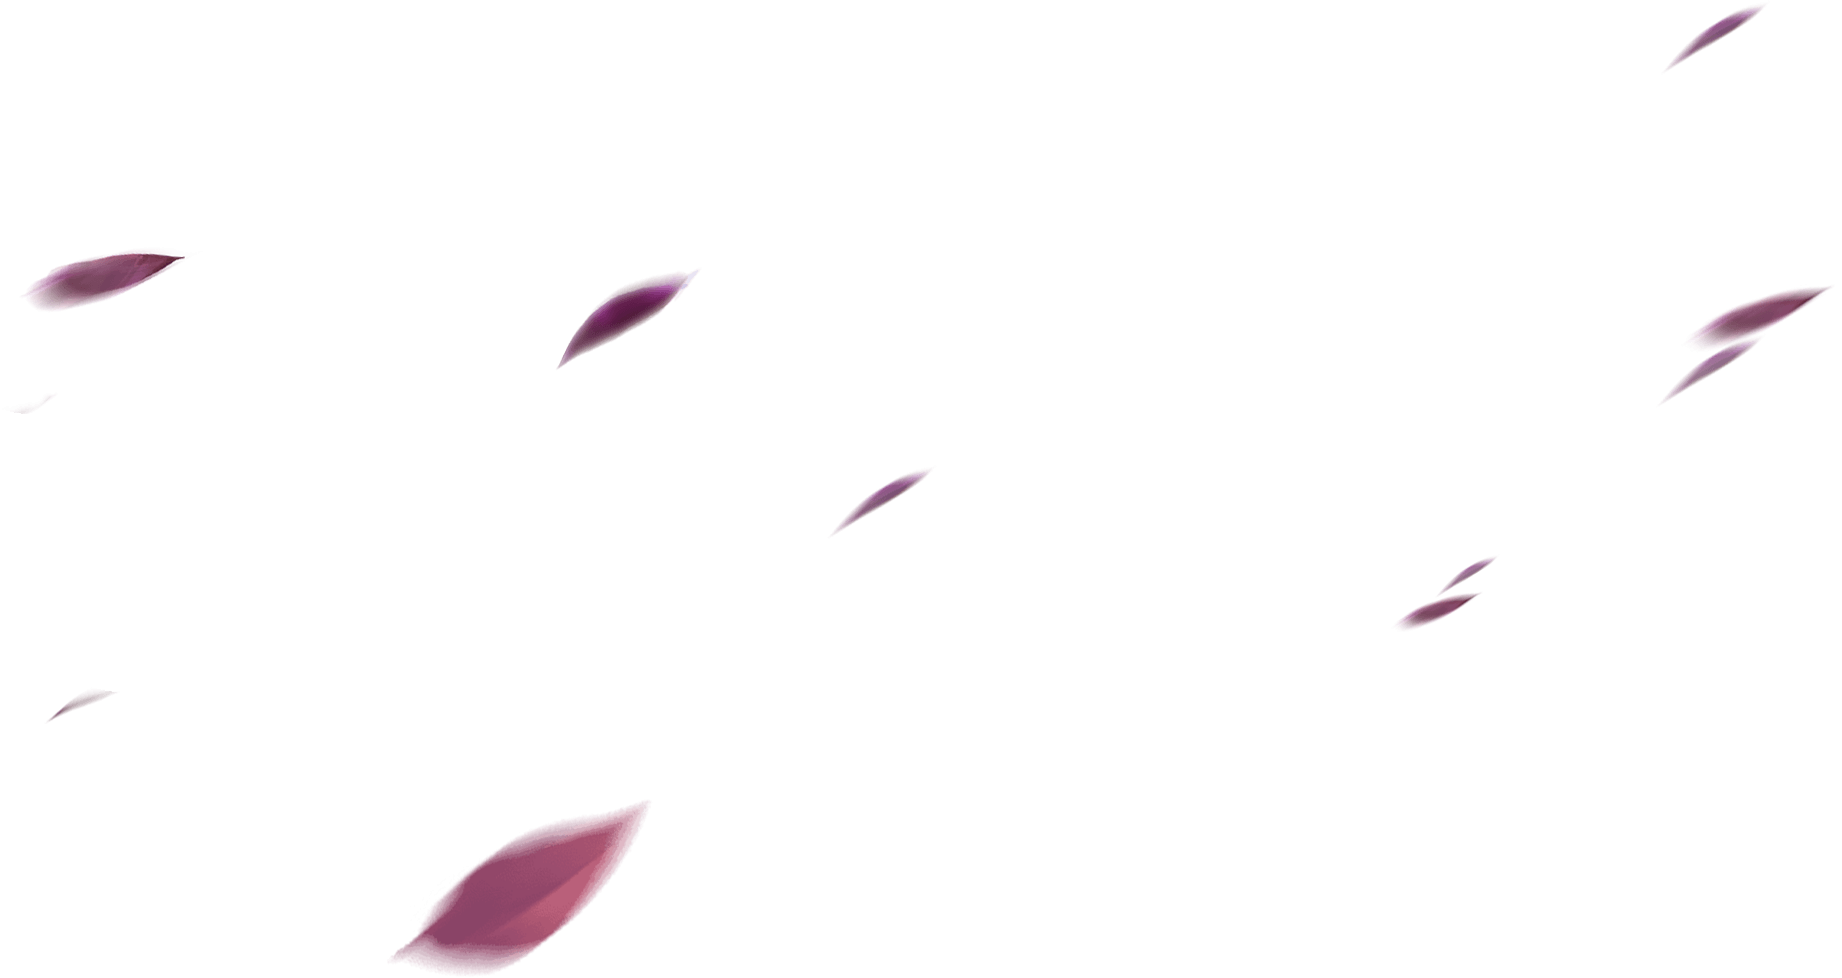
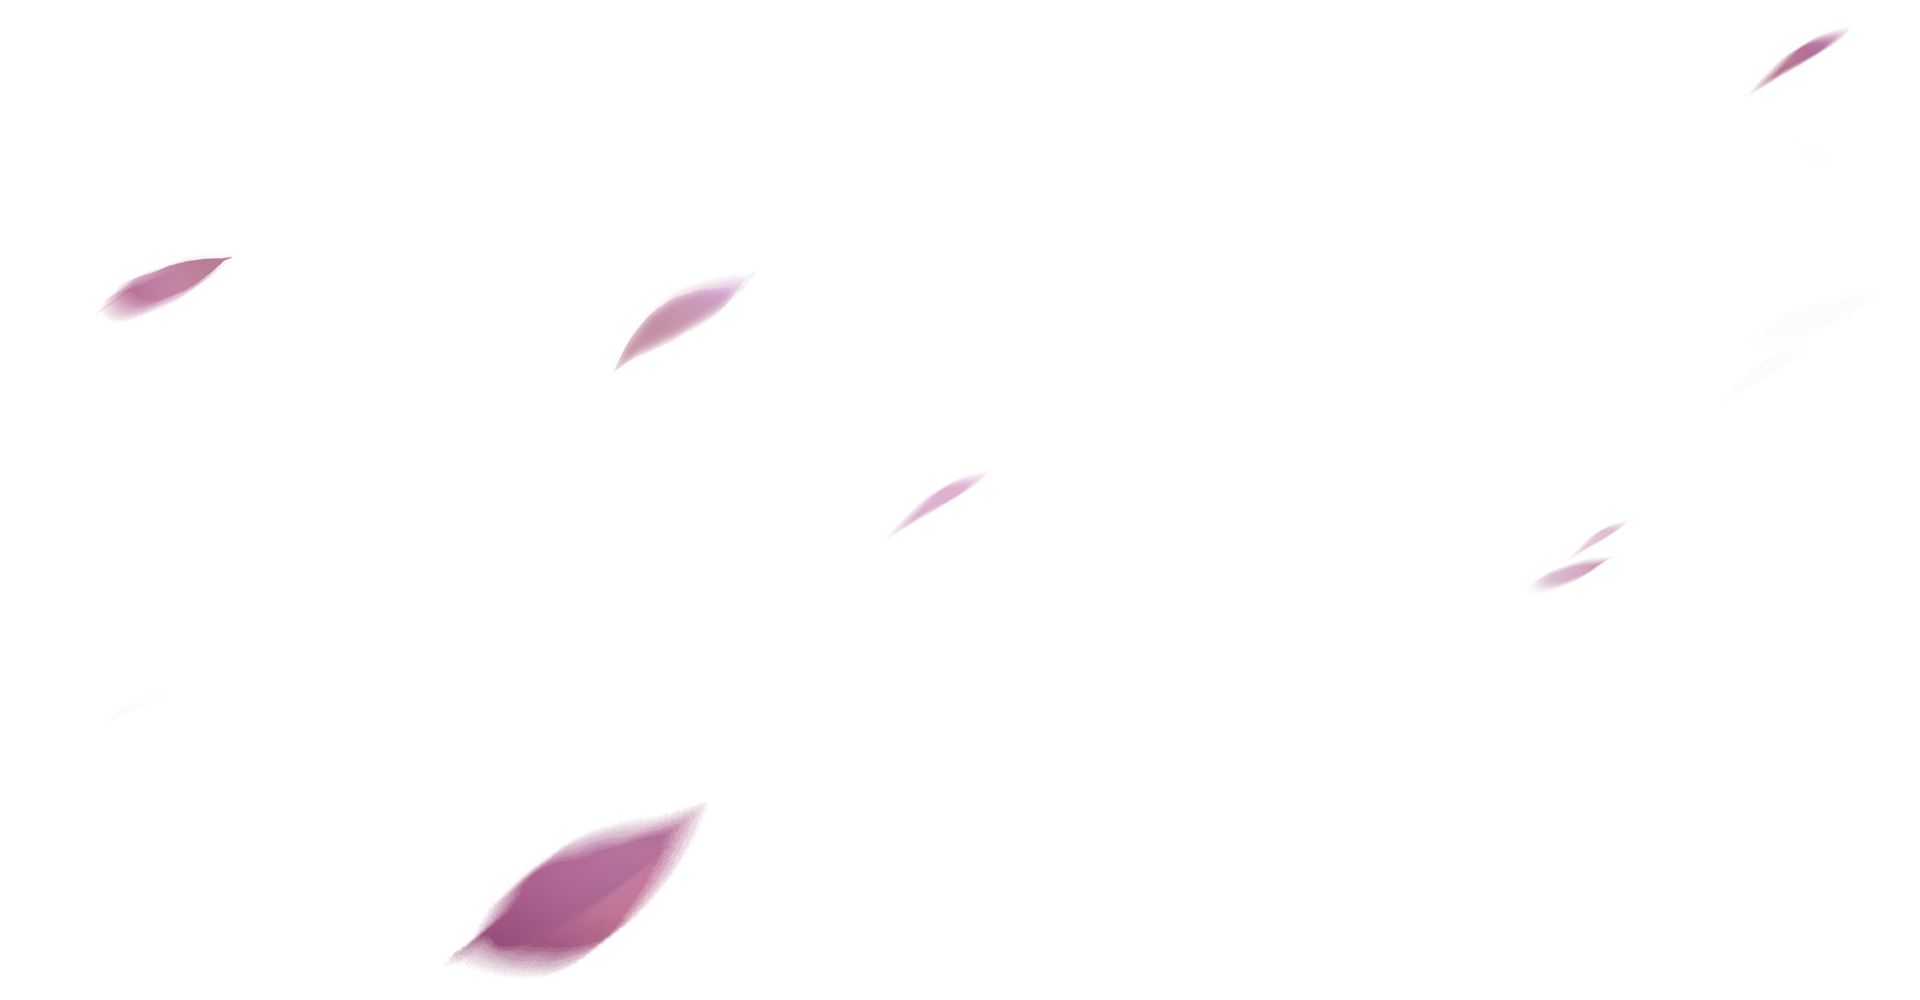
零散的一些小问题

diff --git a/mxjh-web/WebRoot/cssforpc/index.css b/mxjh-web/WebRoot/cssforpc/index.css
@@ -25,26 +25,27 @@ body { font-family: "Microsoft YaHei",simSun,"Lucida Grande","Lucida Sans Unicod
 body { min-width: 1260px; position: relative; margin: 0px auto; }
 .wrap { min-width: 1260px; max-width: auto; width:100%;height:100%; margin: 0px auto; position: relative; }
 .section { min-height: 800px; position: relative; width: 100%; height: 100%; min-width: 1260px; overflow:; }
-.section h2, .section .desc, .section .role-name { position: absolute; text-indent: -9999px; left: 50%; }
+.section h2, .section .desc, .section .role-name,.section  .leaf{ position: absolute; text-indent: -9999px; left: 50%; }
 .role { position: absolute; left: 50%; }
 .section-01 { background:url("../img/bg_01.jpg") no-repeat scroll center top;background-size:cover; }
-.section-01 .title { position: absolute; left: 50%; width: 231px; height: 633px; top: 10%; margin-left: -41%; }
+.section-01 .title { position: absolute; left: 50%; width: 231px; height: 633px; top: 10%; margin-left: -500px; }
 .section-01 .yuyue-btn { position: absolute; text-indent: -9999px; width: 105px; height: 168px; top: 202px; left: 50%; margin-left: -512px; background-repeat: no-repeat; }
 .section-01 .yuyue-btn:hover { background-repeat: no-repeat; }
-.section-01 .slogan_date { background:url("../img/dyqrt.png") top center no-repeat;width: 50px; height: 600px; font-size: 0px; text-indent: -9999px; display: block; margin: 1% auto 0px -45%; position: absolute; top: 10%; left: 50%; z-index: 10;}
+.section-01 .slogan_date { background:url("../img/dyqrt.png") top center no-repeat;width: 50px; height: 600px; font-size: 0px; text-indent: -9999px; display: block; margin: 1% auto 0px -580px; position: absolute; top: 10%; left: 50%; z-index: 10;}
 .section-01 a.download-btn { background-repeat: no-repeat; }
 .section-01 a.download-btn:hover { background-repeat: no-repeat; }
-.section-01 .qrcode_wx_box { background:url("../img/gzwx.png");width: 143px; height: 89px; position: absolute; top: 50%; left: 50%; margin-left: -125px; z-index: 10; font-size: 0px; background-repeat: no-repeat; }
-.section-01 .erweima{ background:url("../img/wxewm001.png");width: 100px; height: 99px; position: absolute; top: 50%; left: 50%; margin-left: -25px; z-index: 10; font-size: 0px; background-repeat: no-repeat;background-size:cover }
-.section-01 .luntan_btn {background:url("../img/jrgw01.png"); width: 112px; height: 89px; position: absolute; top: 62%; left: 50%; margin-left: -125px; z-index: 10; font-size: 0px; background-repeat: no-repeat; }
-.section-01 .gift_con { background:url("../img/yylb.png");width: 112px; height: 89px; position: absolute; top: 74%; left: 50%; margin-left: -125px; z-index: 10; font-size: 0px; background-repeat: no-repeat; }
+.section-01 .qrcode_wx_box { background:url("../img/gzwx.png");width: 143px; height: 89px; position: absolute; top: 50%; left: 50%; margin-left: -75px; z-index: 10; font-size: 0px; background-repeat: no-repeat; }
+.section-01 .erweima{ background:url("../img/wxewm001.png");width: 100px; height: 99px; position: absolute; top: 50%; left: 50%; margin-left: 25px; z-index: 10; font-size: 0px; background-repeat: no-repeat;background-size:cover }
+.section-01 .luntan_btn {background:url("../img/jrgw01.png"); width: 112px; height: 89px; position: absolute; top: 62%; left: 50%; margin-left: -75px; z-index: 10; font-size: 0px; background-repeat: no-repeat; }
+.section-01 .gift_con { background:url("../img/yylb.png");width: 112px; height: 89px; position: absolute; top: 74%; left: 50%; margin-left: -75px; z-index: 10; font-size: 0px; background-repeat: no-repeat; }
 .logo { position: absolute; width: 262px; height: 120px; top: 137px; left: 50%; margin-left: 202px; background-repeat: no-repeat; }
 /* .role-01 { width: 887px; height: 542px; top: 0px; margin-left: -530px; background: transparent url("") no-repeat scroll 0% 0%; } */
-.role-02 { width:30%;min-height:75%; height:auto; top: 15px; margin-left: 8%; margin-top: 2%;background:url("../img/page1_01.png") no-repeat top center;background-size:cover;overflow:display;}
+/* .role-02 { width:30%;min-height:75%; height:auto; top: 15px; margin-left: 8%; margin-top: 2%;background:url("../img/page1_01.png") no-repeat top center;background-size:cover;overflow:display;}*/
+.role-02 { width:472px;height:680px; top: 15px; margin-left: 8%; margin-top: 2%;background:url("../img/page1_01.png") no-repeat top center;background-size:cover;overflow:display;}
 .btn-video { position: absolute; width: 155px; height: 133px; left: 50%; margin-left: -641px; top: 653px; background-repeat: no-repeat; }
 .btn-video i { width: 40px; height: 40px; position: absolute; left: 50%; top: 50%; margin: -18px 0px 0px -6px; background-repeat: no-repeat; }
 .btn-video:hover i { animation-play-state: paused; }
-.nie-download { width: 230px; height: 380px; background: transparent url("../img/xiaz.png") no-repeat scroll 0% 0%; position: absolute; left: 50%; margin-left: -25%;  z-index: 10; box-sizing: border-box; padding: 12px 0px 0px 94px; }
+.nie-download { width: 230px; height: 380px; background: transparent url("../img/xiaz.png") no-repeat scroll 0% 0%; position: absolute; left: 50%; margin-left: -300px;  z-index: 10; box-sizing: border-box; padding: 12px 0px 0px 94px; }
 .nie-download .NIE-qrcode { width: 91px; height: 91px; margin-top: 28px; float: left; }
 .nie-download .NIE-qrcode img {background:url("../img/ewm.png");display: block; width: 100%; margin-left:-26px;margin-top:16px;}
 .nie-download .buttons{margin-left:-40%; margin-top:160px;}
@@ -78,14 +79,14 @@ body { min-width: 1260px; position: relative; margin: 0px auto; }
 .pic-list-odd { left: 78px; }
 .section-05 { background: rgb(235, 235, 235) url("../img/bg_05.jpg") no-repeat scroll center top;background-size:cover; }
 .section-05 h2 { background:url("../img/pg05_01.png") top center no-repeat;width: 221px; height: 503px; top: 1px; margin-left: -35%; background-repeat: no-repeat;z-index:100;background-size:100%; }
-.section-05 .desc { background:url("../img/pg05_02.png") top center no-repeat;width: 88px; height: 502px; top: 103px; margin-left: 35%; background-repeat: no-repeat; }
+.section-05 .desc { background:url("../img/pg05_02.png") top center no-repeat;width: 88px; height: 502px;top: 103px; margin-left: 35%; background-repeat: no-repeat; }
 .section-05 .role-name-01 {background:url("../img/pg05_11.png") top center no-repeat; width: 145px; height: 33px; top: 572px; margin-left: -9%; background-repeat: no-repeat;z-index:100 ;background-size:100%;}
-.section-05 .role-name-02 { background:url("../img/pg05_14.png") top center no-repeat; width: 145px; height: 33px; top: 650px; margin-left: -32%; background-repeat: no-repeat;background-size:100%; }
+.section-05 .role-name-02 { background:url("../img/pg05_14.png") top center no-repeat; width: 145px; height: 33px; top: 650px; margin-left: -32%; background-repeat: no-repeat;background-size:100%;z-index:99; }
 .section-05 .role-name-03 {background:url("../img/pg05_13.png") top center no-repeat;  width: 145px; height: 33px; top: 270px; margin-left: 12%; background-repeat: no-repeat;background-size:100%; }
 .section-05 .role-name-04 { background:url("../img/pg05_12.png") top center no-repeat; width: 145px; height: 33px; top: 650px; margin-left: 14%; background-repeat: no-repeat;background-size:100%; }
 
 .section-05 .role-06 { width: 300px; height: 315px; top: 245px; margin-left: -14%; background: transparent url("../img/pg05_O1.png") no-repeat scroll 0% 0%; background-size:100%;}
-.section-05 .role-07 { width: 250px; height: 251px; top: 397px; margin-left: -35%; background: transparent url("../img/pg05_O2.png") no-repeat scroll 0% 0%; background-size:100%;}
+.section-05 .role-07 { width: 250px; height: 251px; top: 397px; margin-left: -35%; background: transparent url("../img/pg05_O2.png") no-repeat scroll 0% 0%; background-size:100%;z-index:99;}
 .section-05 .role-08 { width: 250px; height: 241px; top: 28px; margin-left: 8%; background: transparent url("../img/pg05_O4.png") no-repeat scroll 0% 0%; background-size:100%;}
 .section-05 .role-09 { width: 228px; height: 234px; top: 410px; margin-left: 11%; background: transparent url("../img/pg05_O3.png") no-repeat scroll 0% 0%; background-size:100%;}
 
@@ -96,7 +97,7 @@ body { min-width: 1260px; position: relative; margin: 0px auto; }
 .section-06 h2 { background:url("../img/pg06_01.png") top center no-repeat;width: 276px; height: 508px; top:25%; margin-left: -41%; background-repeat: no-repeat; }
 .section-06 .desc {background:url("../img/pg06_02.png") top center no-repeat; width: 88px; height: 501px; top: 53px; margin-left: 35%; background-repeat: no-repeat; }
 .section-06 .role-name-01 { width: 41px; height: 88px; top: 148px; margin-left: -224px; background-repeat: no-repeat; }
-.section-06 .role-name-02 { width: 41px; height: 84px; top: 148px; margin-left: 26px; background-repeat: no-repeat; }
+.section-06 .role-name-02 { width: 41px; height: 84px; top: 148px; margin-left: 26px; background-repeat: no-repeat;z-index:29; }
 .section-06 .role-name-03 { width: 41px; height: 84px; top: 148px; margin-left: 191px; background-repeat: no-repeat; }
 .section-06 .role-name-04 { width: 41px; height: 105px; top: 148px; margin-left: 383px; background-repeat: no-repeat; }
 
@@ -128,7 +129,7 @@ body { min-width: 1260px; position: relative; margin: 0px auto; }
 .nav-box .nav-txt { display: none; background: transparent none repeat scroll 0px 0px; }
 .nav-con { width: 1200px; margin: 0px auto; }
 .nav-box-light { background-repeat: repeat-x; }
-.nav-box-02 { display: none; transition: height 0.8s ease 0s;z-index:19; }
+.nav-box-02 { display: none; transition: height 0.8s ease 0s;z-index:109; }
 .nav-box-02.fix { position: absolute; }
 .nav-item { float: left; position: relative; }
 .nav-news-box { width: 560px; }
@@ -148,15 +149,15 @@ body { min-width: 1260px; position: relative; margin: 0px auto; }
 .nav-light-box .btn-nav-download { background-repeat: no-repeat; }
 .nav-light-box .btn-nav-download:hover { background-repeat: no-repeat; }
 .nav-light-box .public-box i { background-repeat: no-repeat; }
-.btn-back {background:url("../img/goback_top.png")  top center no-repeat; position: absolute; width: 90px; height: 161px; text-indent: -9999px; top: 0px; left: 50%; margin-left: 610px; background-repeat: no-repeat; }
+.btn-back {background:url("../img/goback_top.png")  top center no-repeat; position: absolute; width: 90px; height: 161px; text-indent: -9999px; top: 0px; left: 50%; margin-left: 510px; background-repeat: no-repeat; }
 .btn-back i {  width: 0px; height: 0px; position: absolute; bottom: 6px; left: 3px; border-width: 6px; border-style: solid; transition: all 0.5s ease 0s; border-color: transparent transparent rgb(201, 174, 108); }
 .btn-back:hover i { bottom: 34px; }
-.btn-nav-download { background:url("../img/game_dl.png")  top center no-repeat;position: absolute; width: 90px; height: 161px; text-indent: -9999px; top: 0px; left: 50%; margin-left: 410px; background-repeat: no-repeat; }
+.btn-nav-download { background:url("../img/game_dl.png")  top center no-repeat;position: absolute; width: 90px; height: 161px; text-indent: -9999px; top: 0px; left: 50%; margin-left: 360px; background-repeat: no-repeat; }
 .btn-nav-download i { position: absolute; width: 11px; height: 10px; top: 5px; left: 3px; transition: all 0.5s ease 0s; background-repeat: no-repeat; }
 .btn-nav-download:hover i { top: 30px; }
 .public-box { background:url("../img/ewm.png") top center  no-repaeat;position: absolute; width: 90px; height: 90px; top: 40px; left: 50%; margin-left: 150px; }
 .public-box i { background:url("../img/gzwz.png") top center  no-repaeat; position: absolute; width: 41px; height: 90px; top: 0px; left: -50px; background-repeat: no-repeat; }
-.i-arrow { position: fixed; width: 42px; height: 69px; left: 50%; margin-left: -6px; bottom: 170px; background-repeat: no-repeat;z-index:999999999; }
+.i-arrow { position: fixed; width: 42px; height: 69px; left: 50%; margin-left: -6px; bottom: 170px; background-repeat: no-repeat;z-index:29; }
 @media screen and (max-height: 800px) {
   .nav-box { height: 110px; }
   .nav-games-box a { height: 140px; padding-top: 42px; }
@@ -168,7 +169,7 @@ body { min-width: 1260px; position: relative; margin: 0px auto; }
 .nav-suo .nav-txt { display: block; width: 110px; text-indent: 1.5em; font-size: 14px; position: absolute; line-height: 30px; height: 30px; left: 50%; top: 50%; margin: -15px 0px 0px -42px; color: #11324C; font-style: normal; }
 body #NIE-topBar-include { position: fixed; width: 100%; top: 0px; left: 0px; z-index: 90; }
 .arrow2 { height: 51px; background-repeat: no-repeat; }
-.leaf { position: absolute; width: 80%; height: 90%;left: 0px; top: 0px; background:transparent url("../img/luoye.png") no-repeat scroll center top; transition: all 0.1s ease 0s; z-index:9;background-size:cover; }
+.leaf { position: absolute; width:1105px; height: 587px;margin-left: -552px; top: 2%; background:transparent url("../img/luoye.png") no-repeat scroll center top; transition: all 0.1s ease 0s; z-index:9;background-size:cover; }
 .leaf-01 { top: 0px; background-repeat: no-repeat; }
 .leaf-02 { top: 0px; background-repeat: no-repeat; }
 .leaf-03 { top: 0px; background-repeat: no-repeat; }
@@ -178,7 +179,7 @@ body #NIE-topBar-include { position: fixed; width: 100%; top: 0px; left: 0px; z-
 .pop .close {  background:url("../img/giftclose.png") top center no-repeat;position: absolute; width: 46px; height: 46px; right: 73px; top: 35px; transition: all 0.5s ease-in-out 0s; background-repeat: no-repeat; }
 .pop .close:hover { transform: rotate(180deg); }
 .pop .con { height: auto; min-height: 200px;margin-left:20px; width: 404px; padding: 120px 40px 10px; overflow: hidden; }
-.pop-gift {  width: 556px; height: 656px; display: none; }
+.pop-gift {  width: 556px; height: 656px; display: none; z-index:99;}
 .pop-gift .gift-close { background:url("../img/giftclose.png");position: absolute; width: 47px; height: 47px; top: 35px; right: 73px; transition: all 0.5s ease-in-out 0s; background-repeat: no-repeat; }
 .pop-gift .gift-close:hover { transform: rotate(180deg); }
 .pop-gift .con { height: auto; min-height: 200px; width: 376px; padding: 68px 40px 38px; overflow: hidden; }
@@ -257,13 +258,14 @@ body #NIE-topBar-include { position: fixed; width: 100%; top: 0px; left: 0px; z-
 .btn-download-ios { background:url("../img/iosxz.png") top center no-repeat; width: 171px; height: 61px; background-repeat: no-repeat; }
 .btn-download-and {background:url("../img/anzxz.png") top center no-repeat;  width: 173px; height: 61px; background-repeat: no-repeat; }
 .pop-download .gzh-wrap .gzh { background-repeat: no-repeat; }
+.pop-download {z-index:99999999999;}
 .btn-more {background:url("../img/more.png"); position: absolute; width: 26px; height: 26px; right: 10px; top: 27px; background-repeat: no-repeat; }
 .role, .section h2, .desc, .role-name, .title { opacity: 0; }
 .section-01 .btn-video { opacity: 0; }
 
 
 
-.section-01.section-in .role-01 { opacity: 0; animation: 1.5s ease-out 0.1s normal forwards 1 running westNorth;-webkit-animation: 1.5s ease-out 0.1s normal forwards 1 running westNorth; }
+.section-01.section-in .role-01 { opacity: 0; animation: 0.6s ease-out 0.1s normal forwards 1 running westNorth;-webkit-animation: 0.6s ease-out 0.1s normal forwards 1 running westNorth; }
 <!--new add-->
 
 
@@ -391,7 +393,7 @@ body #NIE-topBar-include { position: fixed; width: 100%; top: 0px; left: 0px; z-
 100% { transform: rotate(360deg); }
 }
 .section-02 .slideTxtBox { opacity: 0; }
-.section-02.section-in .role-03 { opacity: 0; -webkit-animation: 2s ease-out 0s normal forwards 1 running comeUp1;animation: 2s ease-out 0s normal forwards 1 running comeUp; }
+.section-02.section-in .role-03 { opacity: 0; -webkit-animation: 0.6s ease-out 0s normal forwards 1 running comeUp1;animation: 0.6s ease-out 0s normal forwards 1 running comeUp; }
 @-webkit-keyframes comeUp1 {
 0% { opacity: 0; transform: translate(200%, 200%); -webkit-transform: translate(0%, 200%);}
 60% { transform: translate(-15px, -15px); -webkit-transform: translate(0px, -15px); }
@@ -432,7 +434,7 @@ body #NIE-topBar-include { position: fixed; width: 100%; top: 0px; left: 0px; z-
 0% { opacity: 0; transform: translate(0px, 5%); }
 100% { opacity: 1; transform: translate(0px, 0px); }
 }
-.section-03.section-in .role-04 { opacity: 0; -webkit-animation: 2s ease-out 0s normal forwards 1 running comeUp2; animation: 2s ease-out 0s normal forwards 1 running comeUp; }
+.section-03.section-in .role-04 { opacity: 0; -webkit-animation: 0.6s ease-out 0s normal forwards 1 running comeUp2; animation: 0.6s ease-out 0s normal forwards 1 running comeUp; }
 @-webkit-keyframes comeUp2{
 0% { opacity: 0; transform: translate(200%, 200%); -webkit-transform: translate(0%, 200%);}
 60% { transform: translate(-15px, -15px); -webkit-transform: translate(0px, -15px); }
@@ -482,7 +484,7 @@ body #NIE-topBar-include { position: fixed; width: 100%; top: 0px; left: 0px; z-
 100% { opacity: 1; transform: translate(0px, 0px); }
 }
 .section-04 .pic-box { opacity: 0; }
-.section-04.section-in .role-05 { opacity: 0;-webkit-animation: 2s ease-out 1s normal forwards 1 running comeUp3;  animation: 2s ease-out 0s normal forwards 1 running comeUp; }
+.section-04.section-in .role-05 { opacity: 0;-webkit-animation: 0.6s ease-out 1s normal forwards 1 running comeUp3;  animation: 0.6s ease-out 0s normal forwards 1 running comeUp; }
 @-webkit-keyframes comeUp3{
 0% { opacity: 0; transform: translate(200%, 200%); -webkit-transform: translate(0%, 200%);}
 60% { transform: translate(-15px, -15px); -webkit-transform: translate(0px, -15px); }
@@ -541,8 +543,8 @@ body #NIE-topBar-include { position: fixed; width: 100%; top: 0px; left: 0px; z-
 0% { opacity: 0; transform: translate(0px, 50%); }
 100% { opacity: 1; transform: translate(0px, 0px); }
 }
-.section-05.section-in .role-06 { opacity: 0; animation: 0.6s ease-out 0.3s normal forwards 1 running comeUp;-webkit-animation: 1s ease-out 0.3s normal forwards 1 running comeUp4; }
-.section-06.section-in .role-06 { opacity: 0; -webkit-animation: 1.4s ease-out 0.3s normal forwards 1 running comeUp4;  animation: 1.2s ease-out 0.3s normal forwards 1 running comeUp; }
+.section-05.section-in .role-06 { opacity: 0; animation: 0.6s ease-out 0.3s normal forwards 1 running comeUp;-webkit-animation: 0.6s ease-out 0.3s normal forwards 1 running comeUp4; }
+.section-06.section-in .role-06 { opacity: 0; -webkit-animation: 1s ease-out 0.3s normal forwards 1 running comeUp4;  animation: 1s ease-out 0.3s normal forwards 1 running comeUp; }
 @-webkit-keyframes comeUp4 {
 0% { opacity: 0; transform: translate(200%, 200%); -webkit-transform: translate(0%, 200%);}
 60% { transform: translate(-15px, -15px); -webkit-transform: translate(0px, -15px); }
@@ -565,8 +567,8 @@ body #NIE-topBar-include { position: fixed; width: 100%; top: 0px; left: 0px; z-
 0% { opacity: 0; transform: translate(0px, 50%); }
 100% { opacity: 1; transform: translate(0px, 0px); }
 }
-.section-05.section-in .role-07 { opacity: 0; -webkit-animation: 2s ease-out 0.75s normal forwards 1 running comeUp4;animation: 0.6s ease-out 0.75s normal forwards 1 running comeUp; }
-.section-06.section-in .role-07 { opacity: 0; -webkit-animation: 1.3s ease-out 0.75s normal forwards 1 running comeUp4;animation: 0.6s ease-out 0.75s normal forwards 1 running comeUp; }
+.section-05.section-in .role-07 { opacity: 0; -webkit-animation: 0.6s ease-out 0.75s normal forwards 1 running comeUp4;animation: 0.6s ease-out 0.75s normal forwards 1 running comeUp; }
+.section-06.section-in .role-07 { opacity: 0; -webkit-animation: 0.6s ease-out 0.75s normal forwards 1 running comeUp4;animation: 0.6s ease-out 0.75s normal forwards 1 running comeUp; }
 @-webkit-keyframes comeUp4 {
 0% { opacity: 0; transform: translate(200%, 200%); -webkit-transform: translate(0%, 200%);}
 60% { transform: translate(-15px, -15px); -webkit-transform: translate(0px, -15px); }

diff --git a/mxjh-web/src/main/com/mxjh/info/AddNumber.java b/mxjh-web/src/main/com/mxjh/info/AddNumber.java
@@ -56,7 +56,7 @@ public class AddNumber extends HttpServlet {
       		while(rs.next()){
       		rowCount = rs.getInt("rowCount");
       		}
-      		if(rowCount==1){                                         			 
+      		if(rowCount>=1){                                         			 
                   data=1;
       			
       		}else{  
